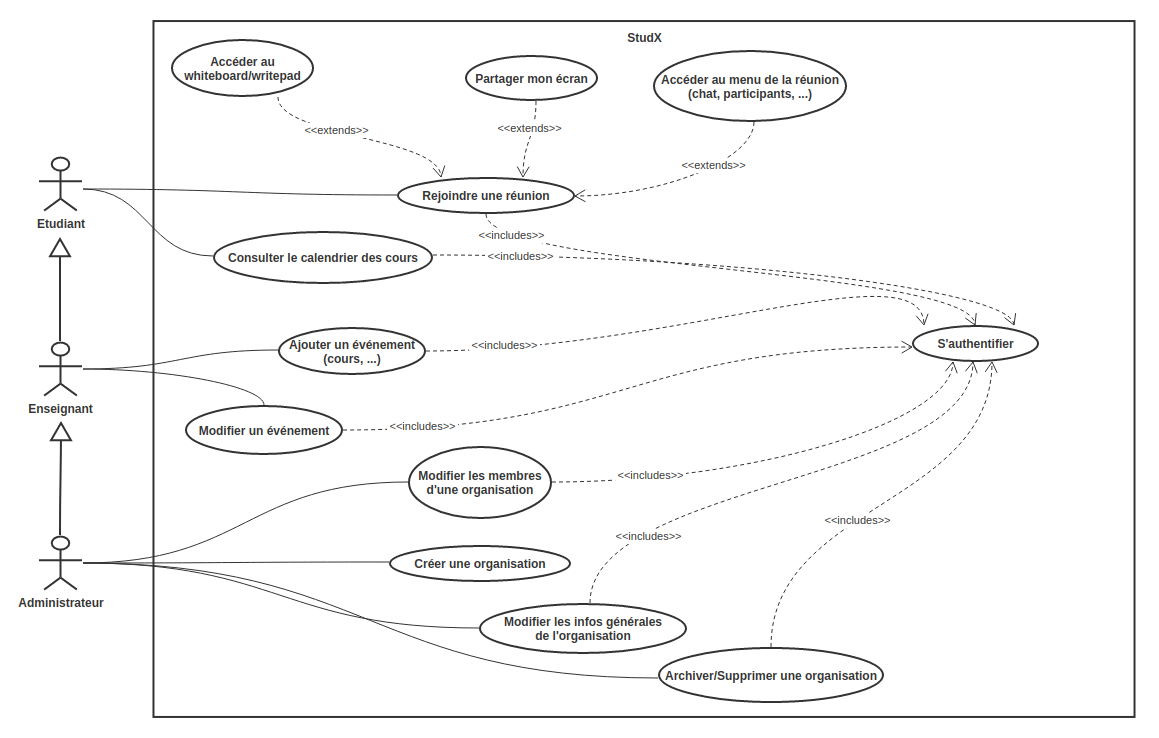
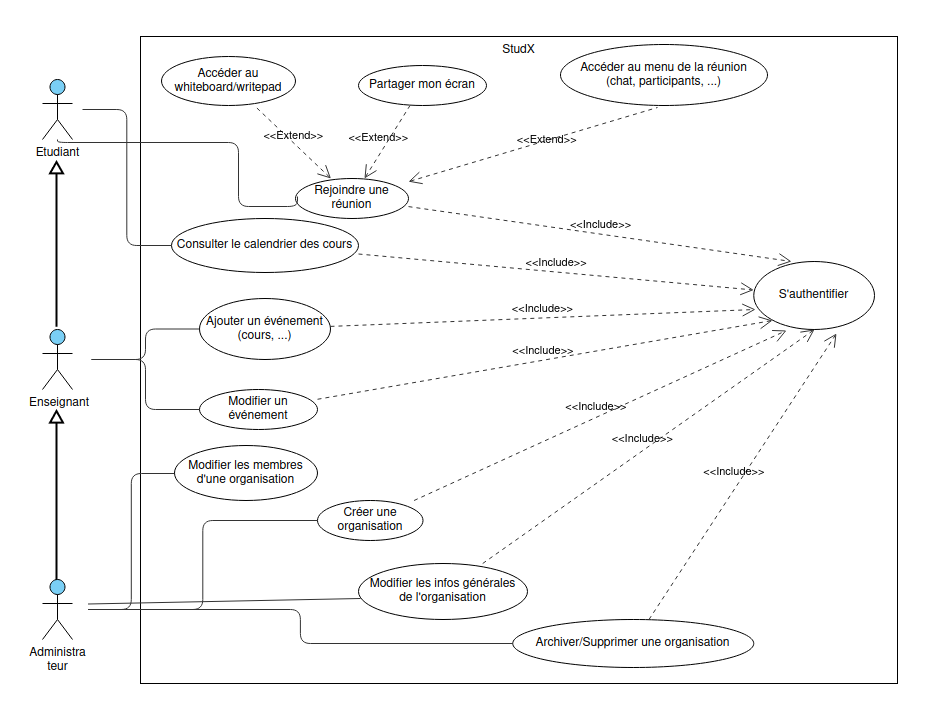
wip: follow recommendations

diff --git a/presentation/main.tex b/presentation/main.tex
@@ -64,28 +64,30 @@
 % %%%%%%%%%%%%%%%%%%%%%%%%%%%%%%%%%%
 \begin{frame}{Introduction}
   \begin{block}{Contexte}
-    L'expansion du numérique dans le milieu éducatif, aujourd'hui, est un fait.
-    Des situations tels la récente pandémie de COVID-19 ou encore le manque de cadres
-    de cours adéquats rendent le besoin encore plus d'actualité. Ceci requiert également un
-    certain investissement de la part des divers acteurs du milieu.
+    Dans le but de rendre l'enseignement plus accessible, les technologies de 
+    communication en temps réel sont largement exploitées. Celà induit des coûts 
+    financiers non négligeables pour les divers acteurs (étudiants, enseignants, ...etc).
   \end{block}
 
   \begin{block}{Problématique}
-    Comment mettre en place une application pour répondre au besoin relatifs aux
-    cours en ligne, tout en éliminant les barrières d'ordres logistique et financier 
-    imposées par les solutions génériques, afin de recréer un environnement de classe virtuel?
+    Comment promouvoir l'emploi des cours en ligne, tout en réduisant le coût financier pour les enseignants et les étudiants ?
   \end{block}
 \end{frame}
 
 \begin{frame}{Introduction}
-  \begin{block}{Objectifs}
-    Concevoir un prototype d'application pour tenir les cours en ligne:
+  \begin{block}{Objectif Général}
+    Concevoir \textbf{StudX}, un prototype d'application de communication en temps réel accessible en mode non connecté, pour minimiser l'utilisation des ressources.
+  \end{block}
+\end{frame}
+
+\begin{frame}{Introduction}
+  \begin{block}{Objectifs spécifiques}
     \begin{itemize}
-      \item organiser les entités en sections bien définies ;
-      \item définir le calendrier des cours à tenir ;
-      \item organiser des sessions d’audio-conférence pour le déroulement des cours ;
-      \item implémenter des fonctionnalités annexes pour une bonne expérience utilisateur ;
-      \item minimiser certains coûts liés à l'exploitation d'une telle solution.
+      \item Organiser les entités en sections bien définies ;
+      \item Définir le calendrier des cours à tenir ;
+      \item Organiser des sessions d’audio-conférence pour le déroulement des cours ;
+      \item Implémenter des fonctionnalités requises pour une bonne expérience utilisateur ;
+      \item Minimiser certains coûts liés à l'exploitation d'une telle solution.
     \end{itemize}
   \end{block}
 \end{frame}
@@ -96,7 +98,7 @@
 \begin{frame}{Revue de Littérature : \small{Termes}}
   \begin{block}{Formation à distance}
     Forme d’enseignement ou l’enseignant et l’étudiant sont séparés dans le temps et/ou par l’espace.
-    Les cours en ligne en sont la dérivée la plus exploitée.
+    Les cours en ligne en sont la dérivée la plus exploitée, aujourd'hui.
   \end{block}
   \begin{block}{WebRTC}
     \textit{Web Real-Time Communication}. Il s'agit d'un protocole activement exploité dans la mise en oeuvre
@@ -117,8 +119,9 @@
   \end{block}
   \begin{block}{Limites}
     \begin{itemize}
-      \item Modèles de souscription basé sur le nombre d'utilisateurs et parfois complexes
+      \item Modèles de souscription basés sur le nombre d'utilisateurs et parfois complexes
       \item Prise en main technique requise
+      \item Pas de mode hors-ligne
       \item Consommation large de données
     \end{itemize}
   \end{block}
@@ -126,6 +129,22 @@
 % %%%%%%%%%%%%%%%%%%%%%%%%%%%%%%%%%%
 % Matériels et méthodes
 % %%%%%%%%%%%%%%%%%%%%%%%%%%%%%%%%%%
+\begin{frame}{Matériels et Méthodes}
+  \begin{block}{Méthode d'analyse}
+    \textbf{UML} est une méthode de visualisation d’architecture
+    logicielle permettant de modéliser l’architecture logicielle d’un système
+  \end{block}
+
+  \begin{block}{Choix techniques}
+    Trois principaux langages de programmation sont retenus:
+    \begin{itemize}
+      \item Rust
+      \item TypeScript
+      \item Python
+    \end{itemize}
+  \end{block}
+\end{frame}
+
 \begin{frame}{Matériels et Méthodes : \small{UML} - \footnotesize{Diagramme de cas d'utilisation}}
   \begin{figure}[H]
     \centering
@@ -150,6 +169,26 @@
 \end{figure}
 \end{frame}
 
+\begin{frame}{Matériels et Méthodes : \small{Implémentation du SaaS}}
+  \begin{figure}[H]
+    \centering
+    \includegraphics[width=\textwidth]{../images/studx-system-design}
+    % \caption{Outils technologiques}
+\end{figure}
+\end{frame}
+
+\begin{frame}{Matériels et Méthodes : \small{Technologies}}
+  \begin{block}{Outils}
+    \begin{itemize}
+      \item Machines Physiques
+      \item Machines Virtuelles
+      \item Connecteur Bluetooth USB
+      \item Haut-parleur Bluetooth
+    \end{itemize}
+  \end{block}
+\end{frame}
+
+
 \begin{frame}{Matériels et Méthodes : \small{Technologies}}
   \begin{figure}[H]
     \centering
@@ -157,7 +196,6 @@
     % \caption{Outils technologiques}
 \end{figure}
 \end{frame}
-
 
 % %%%%%%%%%%%%%%%%%%%%%%%%%%%%%%%%%%
 % Résultats et Discussion
@@ -168,13 +206,49 @@
   \end{center}
 \end{frame}
 
+\begin{frame}{Résultats \& Discussion : \small{Démonstration}}
+  \begin{block}{Dispositif}
+    \begin{itemize}
+      \item 1 machine physique ;
+      \item 1 machine virtuelle ;
+      \item Chacune dispose d'une sortie audio et d'une entrée audio \textit{virtuelle} ;
+      \item Elle sont toutes dans un réseau local.
+    \end{itemize}
+  \end{block}
+
+  \begin{block}{Note}
+    Les microphones virtuels sont alimentés par du contenu audio pour éviter de créer de l'\textit{echo}.
+  \end{block}
+\end{frame}
+
+\begin{frame}{Résultats \& Discussion}
+  \begin{block}{Avantages}
+    \begin{itemize}
+      \item Extensibilité du réseau ;
+      \item Accessibilité en mode non-connecté ;
+      \item Accessibilité en mode connecté ;
+      \item Hébergement en mode \textit{self-hosted}.
+    \end{itemize}
+  \end{block}
+\end{frame}
+
+\begin{frame}{Résultats \& Discussion}
+  \begin{block}{Limites}
+    \begin{itemize}
+      \item Persistance limitée des données ;
+      \item Les sessions ne sont pas enregistrées ;
+      \item L'infrastructure requise est proportionnelle au nombre d'utilisateurs.
+    \end{itemize}
+  \end{block}
+\end{frame}
+
 \begin{frame}{Résultats \& Discussion}
   \begin{block}{}
     La mise en place du prototype a nécéssité la mise en place et la coordination de plusieurs technologies.
-    Les fonctionnalités prévues ont été implémentées. Deployée à grande échelle dans un réseau local, elle permet un usage en mode totalement non connecté.
+    Les fonctionnalités prévues ont été implémentées. Deployée à grande échelle, l'application permet un usage en mode totalement non connecté.
   \end{block}
 
-  \begin{block}{Code source}
+  \begin{block}{Code source}    
     Le code source de l'application est disponible à l'adresse suivante:
     \url{https://github.com/tobihans/studx.git}.
   \end{block}
@@ -184,8 +258,8 @@
   \begin{block}{Difficultés}
     \begin{itemize}
       \item WebRTC est une technologie relativement nouvelle bien que fréquemment employée ;
-      \item Il s'agit d'une technologie complexe à prendre en main ;
-      \item Bogues natifs liés aux navigateurs exploités (exemple: \url{https://bugs.chromium.org/p/chromium/issues/detail?id=933677})
+      \item Il s'agit d'une technologie complexe ;
+      \item Bugs liés aux navigateurs exploités (exemple: \url{https://bugs.chromium.org/p/chromium/issues/detail?id=933677}).
     \end{itemize}
   \end{block}
 \end{frame}
@@ -196,15 +270,15 @@
 \begin{frame}{Conclusion \& Perspectives}
   \begin{block}{}
     Le projet développé fournit un cadre moderne de communication 
-    en temps réel pour l'apprentissage virtuel, avec la possibilité d'étendre ses fonctions à l'avenir;
+    en temps réel pour l'enseignement, avec la possibilité d'étendre ses fonctions à l'avenir;
     ceci, tout en réduisant les coûts pour les utilisateurs.
   \end{block}
 
   \begin{block}{Perspectives}
     \begin{itemize}
       \item Enregistrer les sessions pour un usage ultérieur ;
-      \item Sauvagarder l'historique de la messagerie instantannée
-      \item Intégrer un modèle Machine Learning pour le traitement du signa audio et sa conversion
+      \item Sauvegarder l'historique de la messagerie instantanée ;
+      \item Intégrer un modèle Machine Learning pour le traitement du signal audio et sa conversion
       en langage des signes.
     \end{itemize}
   \end{block}

diff --git a/1-partie/main.tex b/1-partie/main.tex
@@ -37,12 +37,12 @@ plusieurs universités dont celle d’Abomey-Calavi,
 effectuent la transition partielle ou totale vers les classes virtuelles \cite{etudiant_dot_bj}.
 
 On distingue deux environnements d’apprentissage. 
-D’une part, les environnements asynchrones, qui offrent une totale liberté à l'apprenant quant à la gestion de son temps. 
+D’une part, les environnements \textbf{asynchrones}, qui offrent une totale liberté à l'apprenant quant à la gestion de son temps. 
 L’enseignant et lui sont séparés littéralement par le temps et la distance. Ainsi, il peut consulter les ressources au moment qui lui convient le mieux. 
 Cela permet une assimilation plus facile, étant donné que chaque apprenant peut s’adapter en fonction de ses besoins spécifiques. 
 Toutefois, il est possible que l’apprenant se retrouve isolé et ne fasse finalement aucun progrès, faute de support.
 
-D’autre part, un environnement synchrone essaie d'émuler une classe présentiel, 
+D’autre part, un environnement \textbf{synchrone} essaie d'émuler une classe présentiel, 
 à la seule différence que les participants sont physiquement distants. 
 Avec des outils de messagerie instantanée et/ou de visioconférence, 
 les apprenants peuvent interagir avec leurs pairs ainsi que le ou les enseignants.
@@ -54,6 +54,7 @@ Le tableau \ref{course_classification} en fait un récapitulatif.
 
 \begin{table}[H]
   \centering
+\caption{Classification des types de formations en ligne}
 \begin{tabular}{|l|l|l|}
   \hline
   Type de cours &  Nombre d’apprenants &  Type d’environnement \\
@@ -67,7 +68,6 @@ Le tableau \ref{course_classification} en fait un récapitulatif.
   \acrfull{ssoc} & limité & synchrone \\
   \hline
 \end{tabular}
-\caption{Classfication des types de formations en ligne}
 \label{course_classification}
 \end{table}
 
@@ -93,9 +93,13 @@ Pour établir une connexion, il faut quatre étapes à savoir la signalisation, 
   \label{fig:webrtc_protocols}
 \end{figure}
 
-La signalisation désigne le processus initial de mise en relation des pairs. 
+La figure ci-dessus présente les divers protocoles exploités par \acrshort{webrtc}.  Chacun d'eux intervient
+à une étape bien précise, dans l'établissement de la connexion entre deux appareils.
+
+
+Tout commence avec la signalisation, qui désigne le processus initial de mise en relation des pairs. 
 Sans ce processus, une machine quelconque n’a aucune idée de qui voudrait bien la contacter. 
-Pour ce faire, le protocole \acrshort{sdp} est utilisé et permet la transmission d’informations capitales comme:
+Pour ce faire, le protocole \acrshort{sdp}\textbf{SDP} est utilisé et permet la transmission d’informations capitales comme:
 
 \begin{itemize}
   \item l’adresse \acrshort{ip} et le port de chaque agent \acrshort{webrtc} (plusieurs variantes, en réalité)
@@ -106,14 +110,14 @@ Pour ce faire, le protocole \acrshort{sdp} est utilisé et permet la transmissio
 
 A la connexion, les agents \acrshort{webrtc} établissent un lien direct entre eux, sans intermédiaire. 
 Face à la multitude de possibilités de connexion (couples constitués de l’adresse \acrshort{ip} et du port), 
-le protocole \acrshort{ice} permet de choisir le meilleur candidat, en faisant recours au serveur \acrshort{stun} et parfois, à un serveur \acrshort{turn}. 
-Le serveur \acrshort{turn} permet la retransmission des données lorsqu’il est impossible pour un agent \acrshort{webrtc} d'établir un lien 
-direct avec un autre agent en raison de la configuration réseau (\acrshort{nat} et les types de liaisons possibles \cite{nat_links}).
+le protocole \acrshort{ice}\textbf{ICE} permet de choisir le meilleur candidat, en faisant recours au serveur \acrshort{stun}\textbf{STUN} et parfois, à un serveur \acrshort{turn}\textbf{TURN}. 
+Le serveur \acrshort{turn}\textbf{TURN} permet la retransmission des données lorsqu’il est impossible pour un agent \acrshort{webrtc} d'établir un lien 
+direct avec un autre agent en raison de la configuration réseau (\textbf{NAT}\acrshort{nat} et les types de liaisons possibles \cite{nat_links}).
 
-Pour assurer la sécurité de la connexion, les protocoles \acrshort{dtls} et \acrshort{srtp} offrent une couche de chiffrement 
+Pour assurer la sécurité de la connexion, les protocoles \acrshort{dtls}\textbf{DTLS} et \acrshort{srtp}\textbf{SRTP} offrent une couche de chiffrement 
 pour les contenus multimédia et les paquets brutes.
 
-Enfin, les agents peuvent s'échanger de la donnée, du contenu multimédia, presque sans latence, grâce au protocoles \acrshort{rtp} et \acrshort{sctp}.
+Enfin, les agents peuvent s'échanger de la donnée, du contenu multimédia, presque sans latence, grâce au protocoles \acrshort{rtp}\textbf{RTP} et \acrshort{sctp}\textbf{SCTP}.
 
 \acrshort{webrtc} est une technologie complexe qui requiert une certaine expertise quant à la connaissance des protocoles, 
 leur utilisation et la mise en œuvre d'applications en temps réel. 
@@ -212,6 +216,10 @@ La mise en place requiert toutefois, une certaine expertise et du matériel spé
   \caption{Démonstration de BigBlueButton}
   \label{fig:bbg_demo}
 \end{figure}
+
+Cette liste non exhaustive des outils exploités nous a permis de mieux évaluer le besoin, dans le but
+d'orienter proprement le projet de développement que nous avons mis en place. Ainsi, malgré les nombreux avantages
+qu'ils offrent, ils présentent également quelques inconvénients, notamment en termes de coût et d'accessibilité.
 
 \addcontentsline{toc}{section}{Conclusion}
 \section*{Conclusion}

diff --git a/2-partie/main.tex b/2-partie/main.tex
@@ -5,7 +5,7 @@ employées lors de la conception de notre prototype.
 Nous y présenterons également les choix techniques effectués.
 
 \section{Méthodes de conception}
-Dans le souci de décrire de façon fiable, les fonctionnalités du système, nous faisons usage du langage visuel \acrfull{uml}. 
+Dans le souci de décrire de façon fiable, les fonctionnalités du système, nous faisons usage du langage de modélisation \acrshort{uml}. 
 Il s’agit d’une méthode de visualisation d’architecture logicielle permettant de modéliser 
 l’architecture logicielle d’un système.
 
@@ -102,14 +102,14 @@ Les figures \ref{fig:add_event_seq_diag} et \ref{fig:join_meet_seq_diag} illustr
   \label{fig:join_meet_seq_diag}
 \end{figure}
 
-\subsection{Diagramme de classe}
-Le diagramme de classe illustre les classes et les interfaces du système ainsi que les relations qui les lient. 
+\subsection{Diagramme de classes}
+Le diagramme de classes illustre les classes et les interfaces du système ainsi que les relations qui les lient. 
 Le diagramme à la figure \ref{fig:class_diag} en dessous décrit les diverses entités de notre prototype.
 
 \begin{figure}[H]
   \centering
   \includegraphics[width=\linewidth]{class-diag}
-  \caption{Diagramme de classe}
+  \caption{Diagramme de classes}
   \label{fig:class_diag}
 \end{figure}
 

diff --git a/main.tex b/main.tex
@@ -35,11 +35,12 @@
 \encadrants{Ing. Miranda \textbf{GNONLONFOUN}}
 
 %% Membres du Jury
+% TODO: Complete this part
 \jurys{
 \begin{tabular}{llll}
-	% Nom et prénoms du président & Grade & Entité & Président \\
-	% Nom et prénoms de l'examinateur & Grade & Entité & Examinateur \\
-	% Nom et prénoms du rapporteur & Grade & Entité & Rapporteur \\
+	Maurice COMLAN & Docteur & EPAC & Président \\
+	Pierre Jérome ZOHOU & Grade & IFRI & Examinateur \\
+	Miranda GNONLONFOUN & Ingénieur & Réseaux Informatiques & Rapporteur \\
 \end{tabular}	
 }
 
